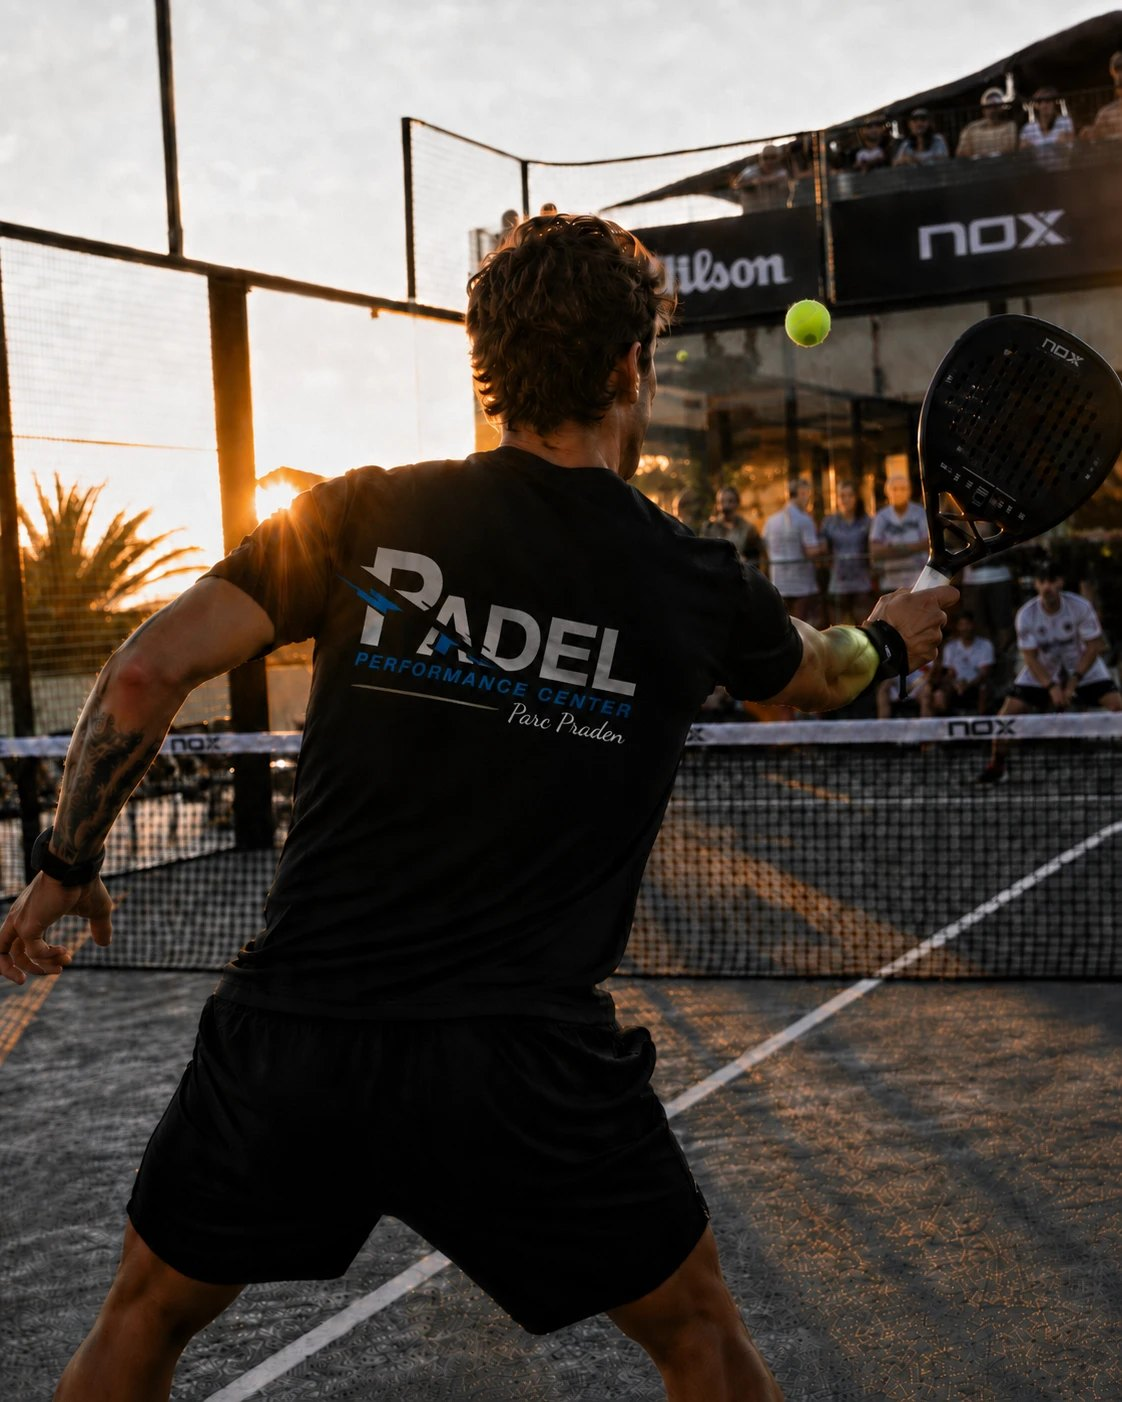
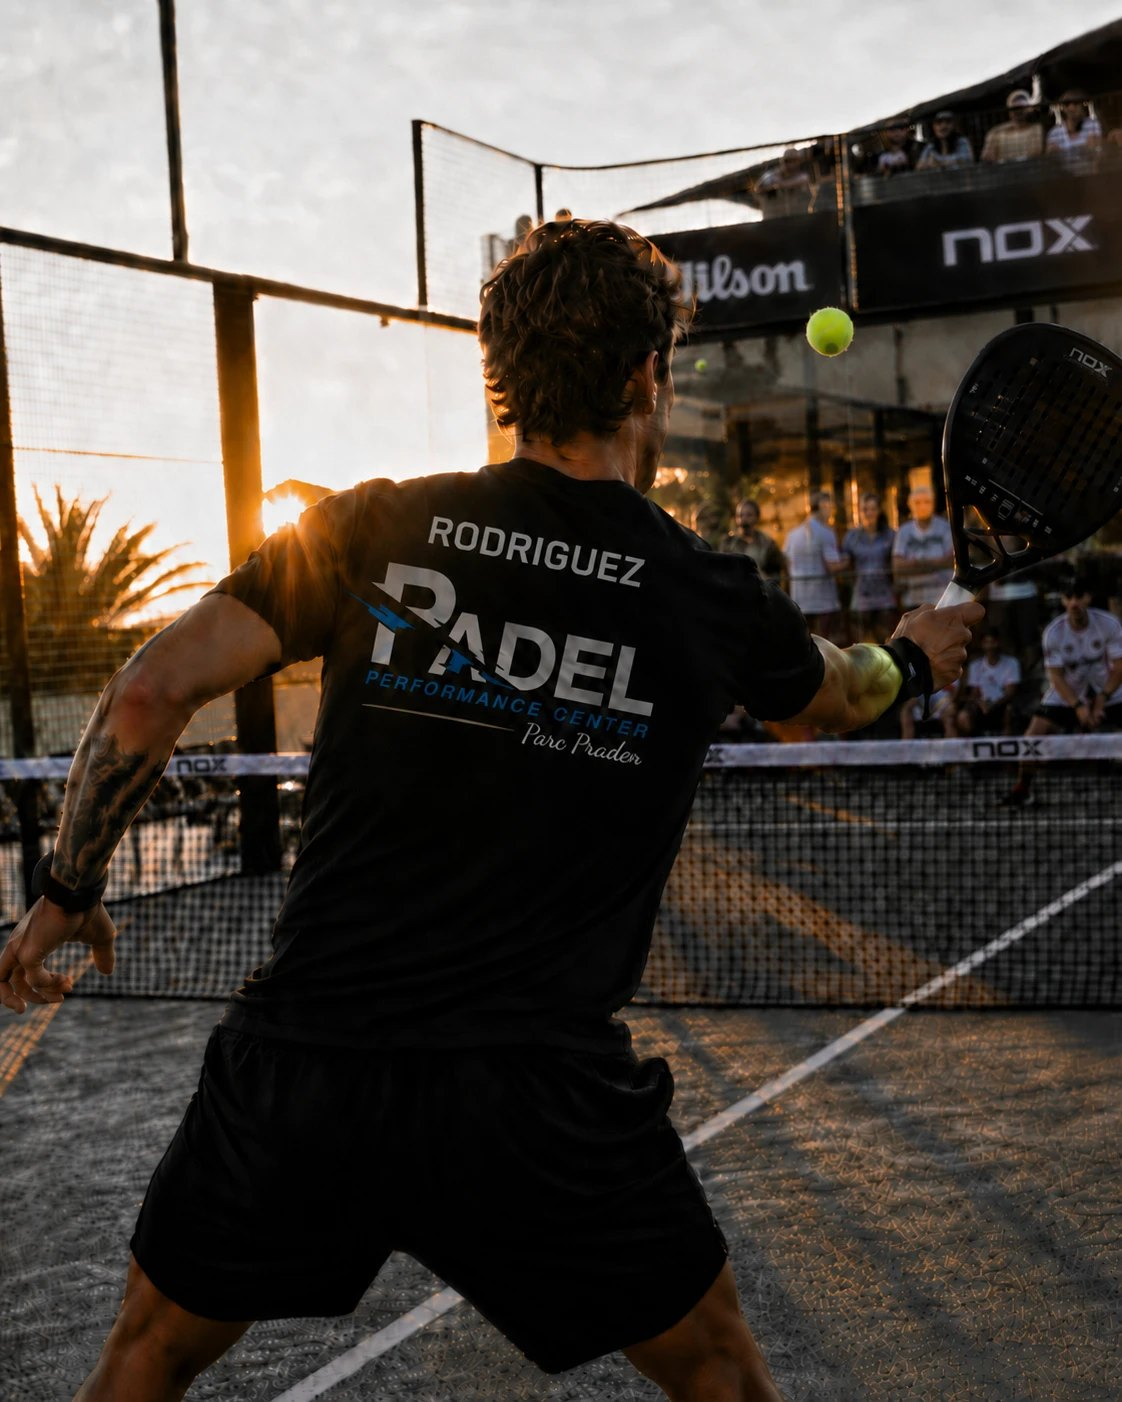
Photo tenue RODRIGUEZ (nom floque dans le dos) + propagation de toutes les modifs sur V2/V3/V4
- nouvelle photo du maillot avec nom au-dessus du logo (assets/jersey.jpg, partagee par les 4)
- V2/V3/V4 resynchronisees depuis V1: encart 'nom floque', 'vous n'etes jamais seul',
  retrait du 'Choisis ta licence' (section licences), retrait du badge prix sur la photo hero

diff --git a/v2.html b/v2.html
@@ -18,7 +18,7 @@
      CONFIG : liens de paiement -> bloc <script id="config"> en bas.
      ========================================================= */
   :root{
-        /* THEME-START : Blanc · Ocean (bleu -> violet) */
+        /* THEME-START : Blanc · Ocean */
     --bg:#ffffff;
     --alt-bg:#f3f6fc;
     --surface:#ffffff;
@@ -177,6 +177,10 @@
   .tenue-copy b{color:var(--ink)}
   .tenue-feats{display:flex;flex-wrap:wrap;gap:9px;margin:20px 0}
   .tenue-feats span{font-size:.85rem;background:var(--surface);border:1px solid var(--line);padding:8px 13px;border-radius:999px;color:var(--ink-2);box-shadow:var(--shadow-sm)}
+  .tenue-name{display:flex;gap:12px;align-items:flex-start;background:var(--grad-soft);border:1px solid var(--line);border-left:4px solid var(--accent);border-radius:14px;padding:14px 16px;margin:4px 0}
+  .tenue-name .ic{font-size:1.35rem;line-height:1.1;flex:0 0 auto}
+  .tenue-name p{margin:0;color:var(--ink-2);font-size:1rem}
+  .tenue-name b{color:var(--ink)}
 
   /* Stats */
   .stats{display:grid;gap:14px;grid-template-columns:repeat(2,1fr);max-width:920px;margin:0 auto}
@@ -281,7 +285,6 @@
 
     <div class="hero-photo photo reveal in">
       <img class="hero-logo" src="assets/logo.png" alt="Logo Padel Performance Center" />
-      <div class="price-flash">Enfant 22€ · Adulte 25€</div>
       <img src="assets/hero.jpg" alt="Le club Padel Performance Center au Parc Praden de nuit : terrasses, palmiers et terrains illuminés" />
       <div class="cap">🔥 L'ambiance <b>du club</b></div>
     </div>
@@ -317,7 +320,7 @@
 <section class="band">
   <div class="photo warm"><img loading="lazy" decoding="async" src="assets/community.jpg" alt="La communauté du Padel Performance Center réunie sur la terrasse du club" /></div>
   <div class="wrap band-in reveal">
-    <h2>Ici, on ne joue jamais <span class="grad-txt">tout seul.</span></h2>
+    <h2>Ici, <span class="grad-txt">vous n'êtes jamais seul.</span></h2>
     <p>Des parties qui se montent en deux messages, des potes de tous niveaux, des fous rires et des bons moments sur la terrasse. Bienvenue dans la communauté la plus vivante du coin.</p>
     <div class="hero-ctas"><a href="#licence" class="btn btn-light">Je prends ma licence →</a></div>
   </div>
@@ -327,7 +330,7 @@
   <div class="wrap">
     <div class="sec-head reveal">
       <div class="kicker">Ta licence 2026</div>
-      <h2>Choisis ta licence.<br><span class="grad-txt">L'aventure commence aujourd'hui.</span></h2>
+      <h2><span class="grad-txt">L'aventure commence aujourd'hui.</span></h2>
       <p>La licence officielle te donne accès aux tournois homologués et t'intègre pleinement à la vie du club. Inscription en ligne, en 2 minutes.</p>
     </div>
     <div class="pricing">
@@ -373,12 +376,16 @@
       <span class="soon">⚡ Nouveauté 2026</span>
       <h2>Des tenues de qualité<br><span class="grad-txt">pour tous les licenciés.</span></h2>
       <p>Cette année, on passe un cap&nbsp;: chaque licencié du club pourra porter <b>une tenue Parc Praden de vraie qualité</b>. On a écouté les remarques, et la qualité textile va être au rendez-vous.</p>
-      <p>Coupe moderne, matières techniques respirantes, finitions impeccables&nbsp;: <b>elles vont faire parler, et tu les porteras fièrement</b>, sur le terrain comme en dehors. Tu ne portes pas juste un maillot, tu appartiens à un club qui compte sur toi !</p>
+      <p>Coupe moderne, matières techniques respirantes, finitions impeccables&nbsp;: <b>elles vont faire parler, et tu les porteras fièrement</b>, sur le terrain comme en dehors.</p>
+      <div class="tenue-name">
+        <span class="ic">🏷</span>
+        <p><b>Et le détail qui change tout : ton nom floqué dans le dos.</b> Ici, personne n'est un numéro&nbsp;: chaque licencié porte son nom au-dessus du logo, fièrement, comme un membre à part entière de l'équipe. On joue tous ensemble, et ça se voit.</p>
+      </div>
       <div class="tenue-feats">
-        <span>👕 Tenue aux couleurs du club</span>
+        <span>🏷 Ton nom floqué dans le dos</span>
+        <span>👕 Aux couleurs du club</span>
         <span>💧 Tissu technique respirant</span>
         <span>🏅 Qualité textile premium</span>
-        <span>🤝 Esprit communauté</span>
       </div>
       <a href="#licence" class="btn btn-primary">Je rejoins le club →</a>
     </div>

diff --git a/v3.html b/v3.html
@@ -18,7 +18,7 @@
      CONFIG : liens de paiement -> bloc <script id="config"> en bas.
      ========================================================= */
   :root{
-        /* THEME-START : Noir · Sunset (orange -> rose) */
+        /* THEME-START : Noir · Sunset */
     --bg:#0a0e17;
     --alt-bg:#0e1320;
     --surface:#121a2b;
@@ -177,6 +177,10 @@
   .tenue-copy b{color:var(--ink)}
   .tenue-feats{display:flex;flex-wrap:wrap;gap:9px;margin:20px 0}
   .tenue-feats span{font-size:.85rem;background:var(--surface);border:1px solid var(--line);padding:8px 13px;border-radius:999px;color:var(--ink-2);box-shadow:var(--shadow-sm)}
+  .tenue-name{display:flex;gap:12px;align-items:flex-start;background:var(--grad-soft);border:1px solid var(--line);border-left:4px solid var(--accent);border-radius:14px;padding:14px 16px;margin:4px 0}
+  .tenue-name .ic{font-size:1.35rem;line-height:1.1;flex:0 0 auto}
+  .tenue-name p{margin:0;color:var(--ink-2);font-size:1rem}
+  .tenue-name b{color:var(--ink)}
 
   /* Stats */
   .stats{display:grid;gap:14px;grid-template-columns:repeat(2,1fr);max-width:920px;margin:0 auto}
@@ -281,7 +285,6 @@
 
     <div class="hero-photo photo reveal in">
       <img class="hero-logo" src="assets/logo.png" alt="Logo Padel Performance Center" />
-      <div class="price-flash">Enfant 22€ · Adulte 25€</div>
       <img src="assets/hero.jpg" alt="Le club Padel Performance Center au Parc Praden de nuit : terrasses, palmiers et terrains illuminés" />
       <div class="cap">🔥 L'ambiance <b>du club</b></div>
     </div>
@@ -317,7 +320,7 @@
 <section class="band">
   <div class="photo warm"><img loading="lazy" decoding="async" src="assets/community.jpg" alt="La communauté du Padel Performance Center réunie sur la terrasse du club" /></div>
   <div class="wrap band-in reveal">
-    <h2>Ici, on ne joue jamais <span class="grad-txt">tout seul.</span></h2>
+    <h2>Ici, <span class="grad-txt">vous n'êtes jamais seul.</span></h2>
     <p>Des parties qui se montent en deux messages, des potes de tous niveaux, des fous rires et des bons moments sur la terrasse. Bienvenue dans la communauté la plus vivante du coin.</p>
     <div class="hero-ctas"><a href="#licence" class="btn btn-light">Je prends ma licence →</a></div>
   </div>
@@ -327,7 +330,7 @@
   <div class="wrap">
     <div class="sec-head reveal">
       <div class="kicker">Ta licence 2026</div>
-      <h2>Choisis ta licence.<br><span class="grad-txt">L'aventure commence aujourd'hui.</span></h2>
+      <h2><span class="grad-txt">L'aventure commence aujourd'hui.</span></h2>
       <p>La licence officielle te donne accès aux tournois homologués et t'intègre pleinement à la vie du club. Inscription en ligne, en 2 minutes.</p>
     </div>
     <div class="pricing">
@@ -373,12 +376,16 @@
       <span class="soon">⚡ Nouveauté 2026</span>
       <h2>Des tenues de qualité<br><span class="grad-txt">pour tous les licenciés.</span></h2>
       <p>Cette année, on passe un cap&nbsp;: chaque licencié du club pourra porter <b>une tenue Parc Praden de vraie qualité</b>. On a écouté les remarques, et la qualité textile va être au rendez-vous.</p>
-      <p>Coupe moderne, matières techniques respirantes, finitions impeccables&nbsp;: <b>elles vont faire parler, et tu les porteras fièrement</b>, sur le terrain comme en dehors. Tu ne portes pas juste un maillot, tu appartiens à un club qui compte sur toi !</p>
+      <p>Coupe moderne, matières techniques respirantes, finitions impeccables&nbsp;: <b>elles vont faire parler, et tu les porteras fièrement</b>, sur le terrain comme en dehors.</p>
+      <div class="tenue-name">
+        <span class="ic">🏷</span>
+        <p><b>Et le détail qui change tout : ton nom floqué dans le dos.</b> Ici, personne n'est un numéro&nbsp;: chaque licencié porte son nom au-dessus du logo, fièrement, comme un membre à part entière de l'équipe. On joue tous ensemble, et ça se voit.</p>
+      </div>
       <div class="tenue-feats">
-        <span>👕 Tenue aux couleurs du club</span>
+        <span>🏷 Ton nom floqué dans le dos</span>
+        <span>👕 Aux couleurs du club</span>
         <span>💧 Tissu technique respirant</span>
         <span>🏅 Qualité textile premium</span>
-        <span>🤝 Esprit communauté</span>
       </div>
       <a href="#licence" class="btn btn-primary">Je rejoins le club →</a>
     </div>

diff --git a/v4.html b/v4.html
@@ -18,7 +18,7 @@
      CONFIG : liens de paiement -> bloc <script id="config"> en bas.
      ========================================================= */
   :root{
-        /* THEME-START : Noir · Neon (lime -> cyan) */
+        /* THEME-START : Noir · Neon */
     --bg:#070b12;
     --alt-bg:#0b1019;
     --surface:#0f1726;
@@ -177,6 +177,10 @@
   .tenue-copy b{color:var(--ink)}
   .tenue-feats{display:flex;flex-wrap:wrap;gap:9px;margin:20px 0}
   .tenue-feats span{font-size:.85rem;background:var(--surface);border:1px solid var(--line);padding:8px 13px;border-radius:999px;color:var(--ink-2);box-shadow:var(--shadow-sm)}
+  .tenue-name{display:flex;gap:12px;align-items:flex-start;background:var(--grad-soft);border:1px solid var(--line);border-left:4px solid var(--accent);border-radius:14px;padding:14px 16px;margin:4px 0}
+  .tenue-name .ic{font-size:1.35rem;line-height:1.1;flex:0 0 auto}
+  .tenue-name p{margin:0;color:var(--ink-2);font-size:1rem}
+  .tenue-name b{color:var(--ink)}
 
   /* Stats */
   .stats{display:grid;gap:14px;grid-template-columns:repeat(2,1fr);max-width:920px;margin:0 auto}
@@ -281,7 +285,6 @@
 
     <div class="hero-photo photo reveal in">
       <img class="hero-logo" src="assets/logo.png" alt="Logo Padel Performance Center" />
-      <div class="price-flash">Enfant 22€ · Adulte 25€</div>
       <img src="assets/hero.jpg" alt="Le club Padel Performance Center au Parc Praden de nuit : terrasses, palmiers et terrains illuminés" />
       <div class="cap">🔥 L'ambiance <b>du club</b></div>
     </div>
@@ -317,7 +320,7 @@
 <section class="band">
   <div class="photo warm"><img loading="lazy" decoding="async" src="assets/community.jpg" alt="La communauté du Padel Performance Center réunie sur la terrasse du club" /></div>
   <div class="wrap band-in reveal">
-    <h2>Ici, on ne joue jamais <span class="grad-txt">tout seul.</span></h2>
+    <h2>Ici, <span class="grad-txt">vous n'êtes jamais seul.</span></h2>
     <p>Des parties qui se montent en deux messages, des potes de tous niveaux, des fous rires et des bons moments sur la terrasse. Bienvenue dans la communauté la plus vivante du coin.</p>
     <div class="hero-ctas"><a href="#licence" class="btn btn-light">Je prends ma licence →</a></div>
   </div>
@@ -327,7 +330,7 @@
   <div class="wrap">
     <div class="sec-head reveal">
       <div class="kicker">Ta licence 2026</div>
-      <h2>Choisis ta licence.<br><span class="grad-txt">L'aventure commence aujourd'hui.</span></h2>
+      <h2><span class="grad-txt">L'aventure commence aujourd'hui.</span></h2>
       <p>La licence officielle te donne accès aux tournois homologués et t'intègre pleinement à la vie du club. Inscription en ligne, en 2 minutes.</p>
     </div>
     <div class="pricing">
@@ -373,12 +376,16 @@
       <span class="soon">⚡ Nouveauté 2026</span>
       <h2>Des tenues de qualité<br><span class="grad-txt">pour tous les licenciés.</span></h2>
       <p>Cette année, on passe un cap&nbsp;: chaque licencié du club pourra porter <b>une tenue Parc Praden de vraie qualité</b>. On a écouté les remarques, et la qualité textile va être au rendez-vous.</p>
-      <p>Coupe moderne, matières techniques respirantes, finitions impeccables&nbsp;: <b>elles vont faire parler, et tu les porteras fièrement</b>, sur le terrain comme en dehors. Tu ne portes pas juste un maillot, tu appartiens à un club qui compte sur toi !</p>
+      <p>Coupe moderne, matières techniques respirantes, finitions impeccables&nbsp;: <b>elles vont faire parler, et tu les porteras fièrement</b>, sur le terrain comme en dehors.</p>
+      <div class="tenue-name">
+        <span class="ic">🏷</span>
+        <p><b>Et le détail qui change tout : ton nom floqué dans le dos.</b> Ici, personne n'est un numéro&nbsp;: chaque licencié porte son nom au-dessus du logo, fièrement, comme un membre à part entière de l'équipe. On joue tous ensemble, et ça se voit.</p>
+      </div>
       <div class="tenue-feats">
-        <span>👕 Tenue aux couleurs du club</span>
+        <span>🏷 Ton nom floqué dans le dos</span>
+        <span>👕 Aux couleurs du club</span>
         <span>💧 Tissu technique respirant</span>
         <span>🏅 Qualité textile premium</span>
-        <span>🤝 Esprit communauté</span>
       </div>
       <a href="#licence" class="btn btn-primary">Je rejoins le club →</a>
     </div>
